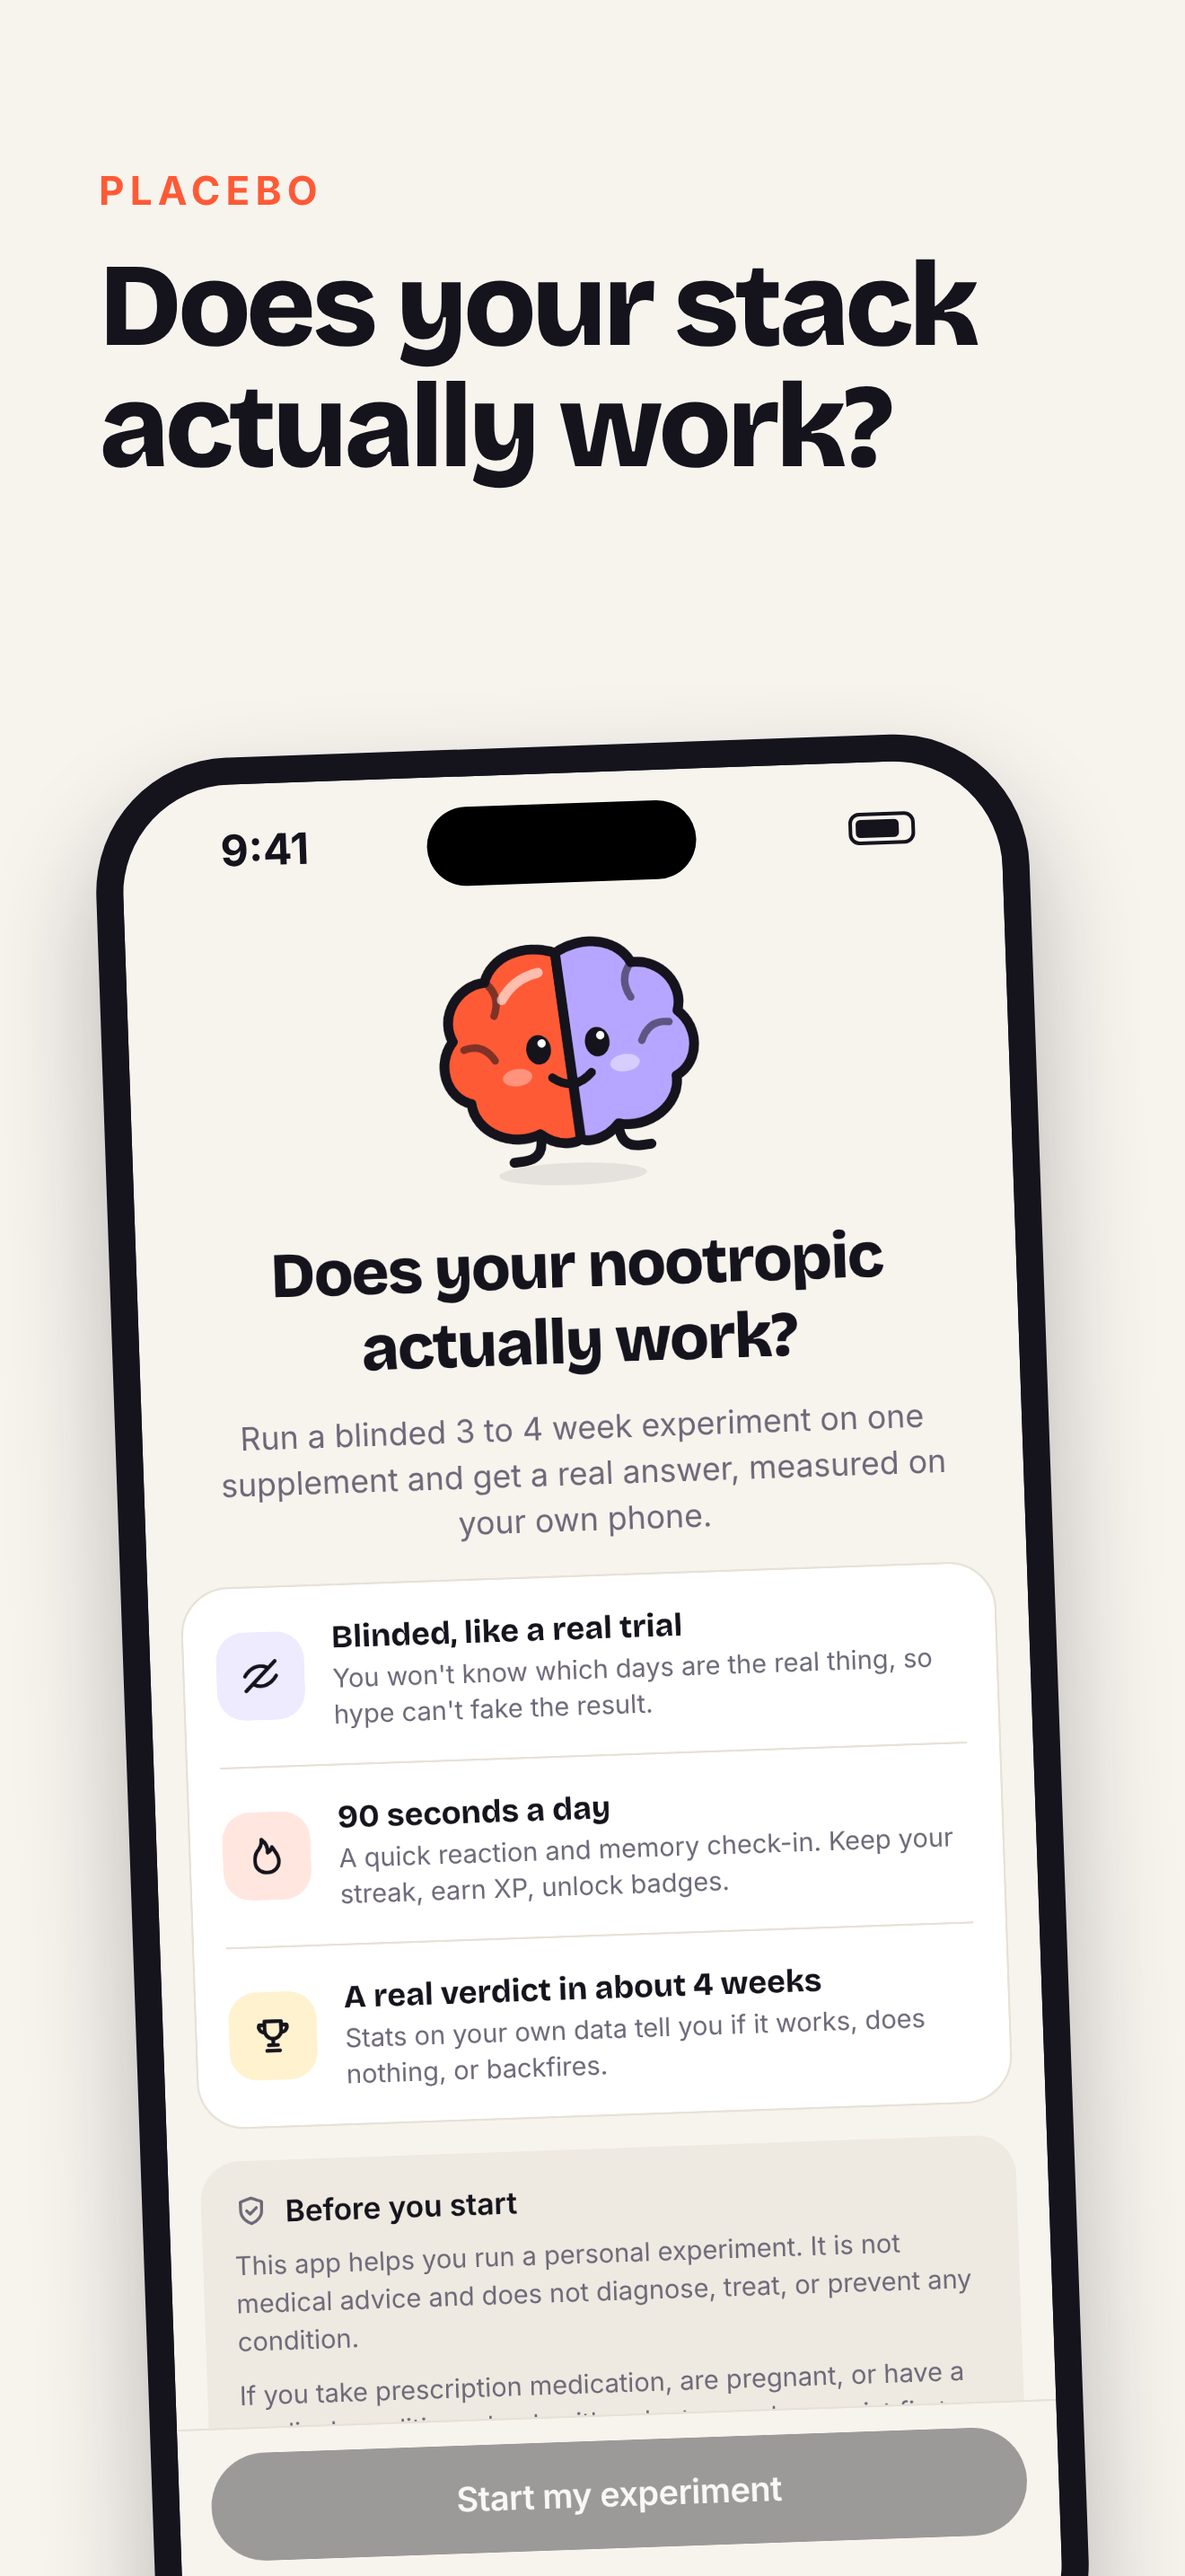
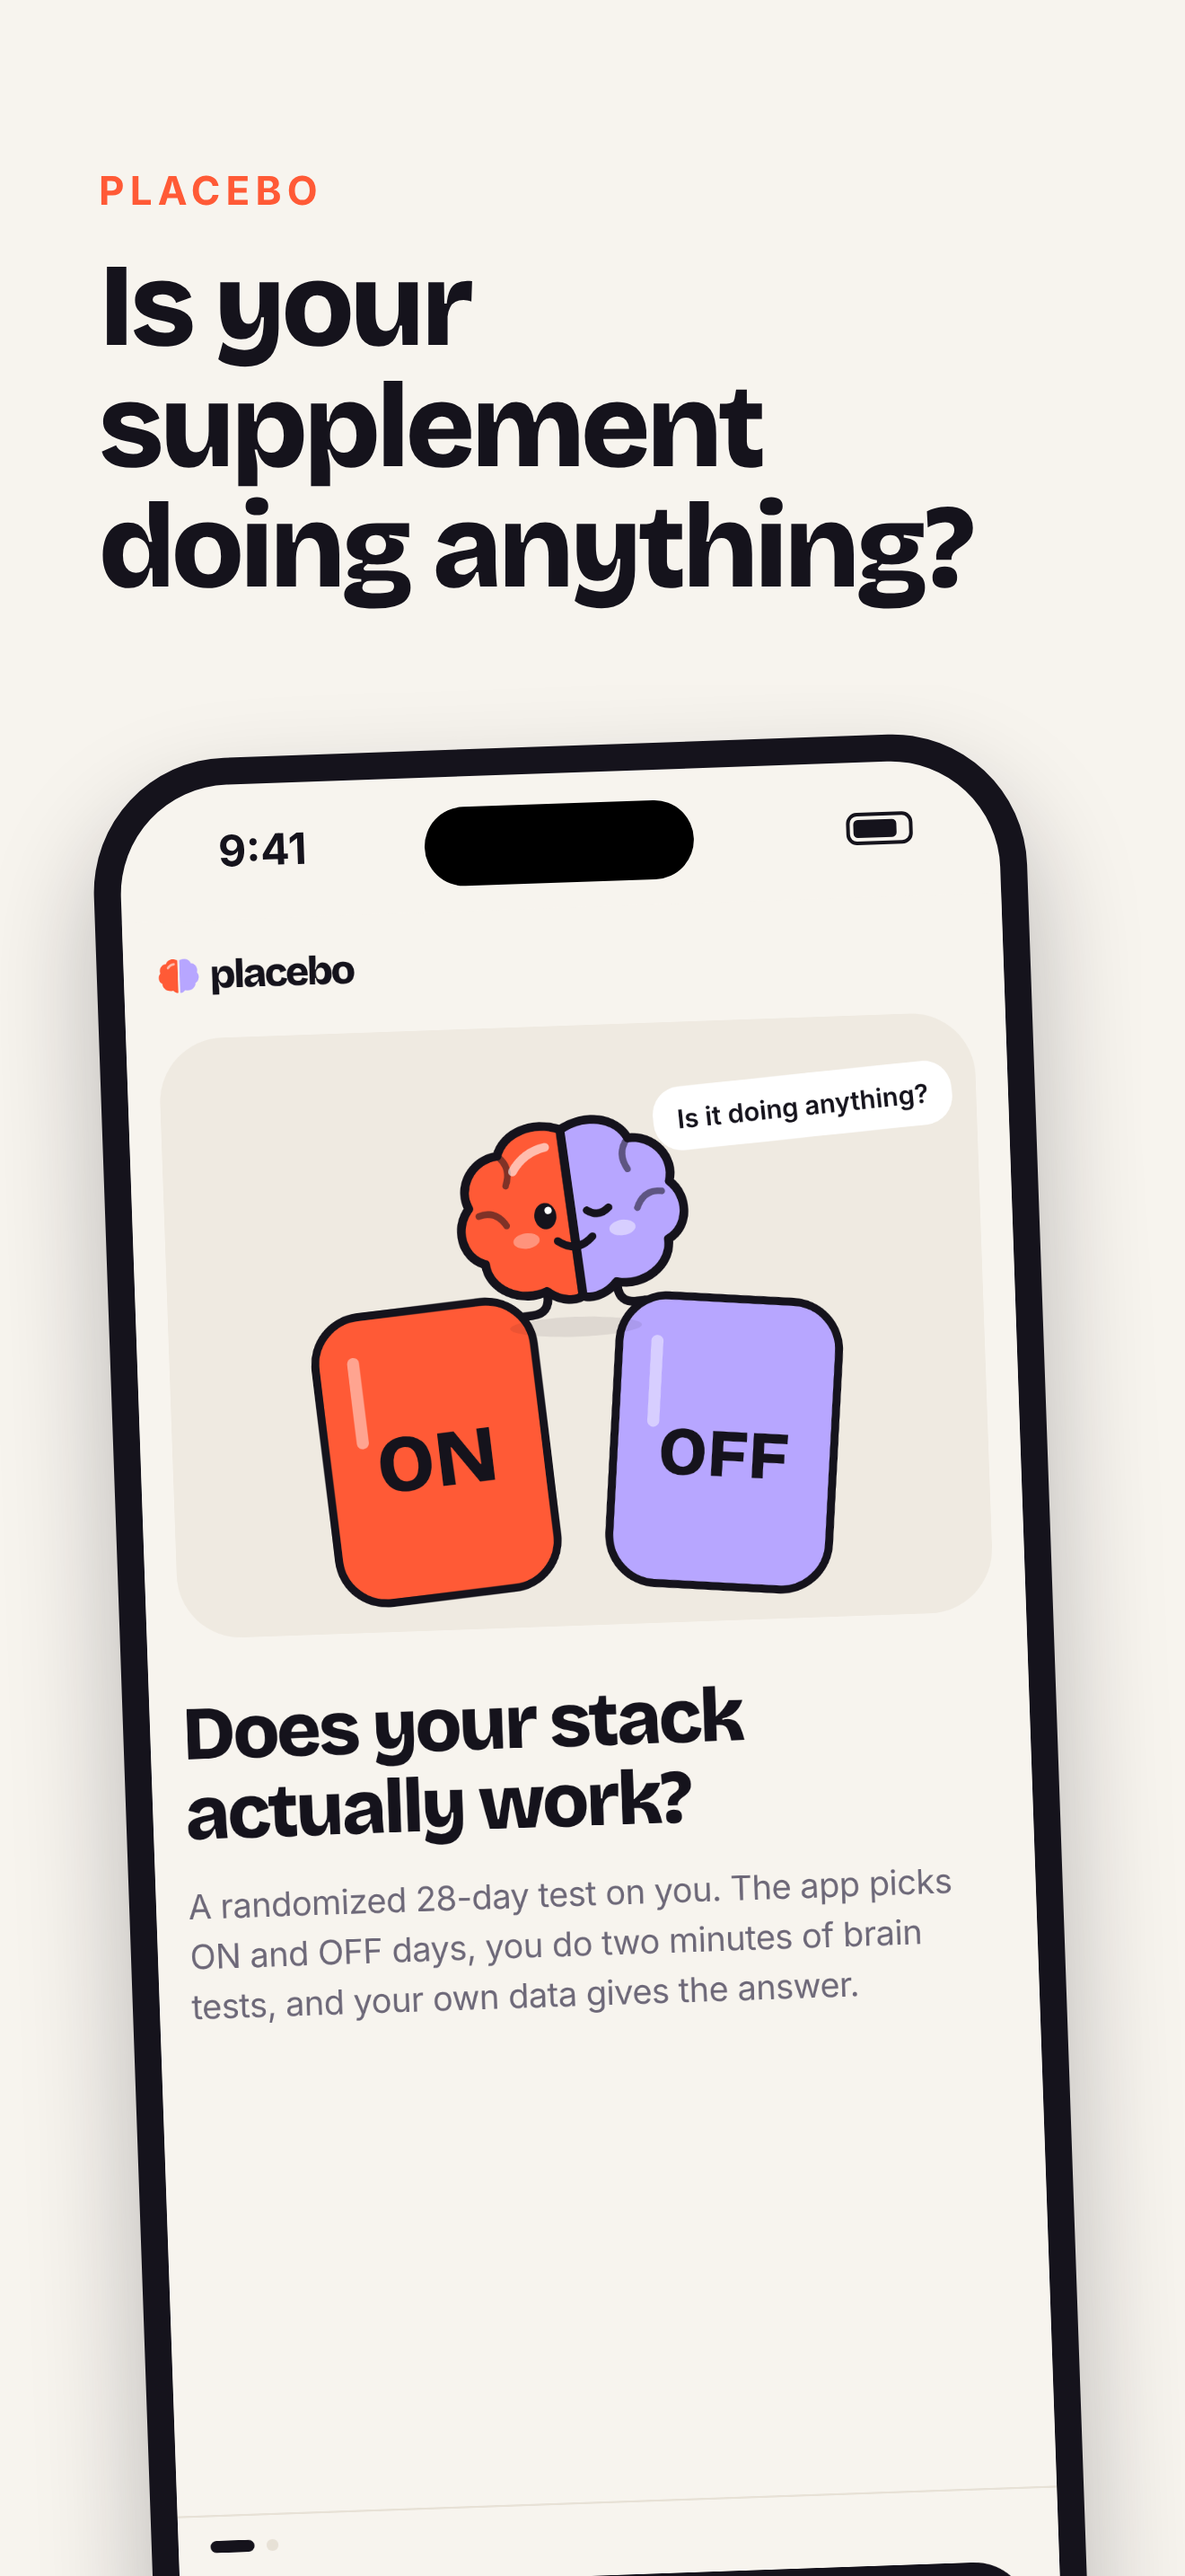
Re-capture App Store screenshots from the Figma restyle
All 7 frames now show the open-label, restyled app (welcome, dark verdict,
Today with ON/OFF call and the 5-test check-in). Completed-run demo seed is
open-label. Description lists the five check-in tests; privacy URL filled in.

Claude-Session: https://claude.ai/code/session_01Jhz688qf6Fq3iAeMnGpjHJ

diff --git a/store/screenshots/frames.html b/store/screenshots/frames.html
@@ -30,6 +30,10 @@
   .screen img { display: block; width: 100%; }
   /* Screens with no top safe-area padding of their own get a status-bar strip. */
   .screen.inset { padding-top: 150px; }
+  .screen.dark { background: var(--ink); }
+  .screen.dark .status { color: var(--paper); }
+  .screen.dark .batt { border-color: var(--paper); }
+  .screen.dark .batt::after { background: var(--paper); }
   .island { position: absolute; top: 34px; left: 50%; width: 300px; height: 88px; transform: translateX(-50%); background: #000; border-radius: 44px; }
   .status { position: absolute; top: 50px; left: 110px; right: 96px; display: flex; justify-content: space-between; align-items: center; font: 700 48px/1 'Inter'; color: var(--ink); }
   .batt { display: block; width: 74px; height: 36px; border: 4px solid var(--ink); border-radius: 12px; position: relative; }
@@ -38,23 +42,23 @@
 </head>
 <body>
 <section class="frame" id="01-hook">
-  <div class="copy"><div class="kicker">Placebo</div><h1>Does your stack actually work?</h1></div>
-  <div class="phone" style="--tilt:-2deg"><div class="screen"><img src="raw/welcome.png"><div class="island"></div><div class="status"><span>9:41</span><span class="batt"></span></div></div></div>
+  <div class="copy"><div class="kicker">Placebo</div><h1>Is your supplement doing anything?</h1></div>
+  <div class="phone" style="--tilt:-2deg"><div class="screen inset"><img src="raw/welcome.png"><div class="island"></div><div class="status"><span>9:41</span><span class="batt"></span></div></div></div>
 </section>
 <section class="frame ink" id="02-verdict">
   <div class="copy"><div class="kicker">The verdict</div><h1>A real answer from your own data.</h1></div>
-  <div class="phone"><div class="screen"><img src="raw/verdict.png"><div class="island"></div><div class="status"><span>9:41</span><span class="batt"></span></div></div></div>
+  <div class="phone"><div class="screen inset dark"><img src="raw/verdict.png"><div class="island"></div><div class="status"><span>9:41</span><span class="batt"></span></div></div></div>
 </section>
 <section class="frame lilac" id="03-randomized">
   <div class="copy"><div class="kicker">Randomized</div><h1>On days, off days. A coin flip picks.</h1></div>
   <div class="phone" style="--tilt:2deg"><div class="screen inset"><img src="raw/progress.png"><div class="island"></div><div class="status"><span>9:41</span><span class="batt"></span></div></div></div>
 </section>
 <section class="frame" id="04-daily-test">
-  <div class="copy"><div class="kicker">90 seconds a day</div><h1>Measure your brain, not your mood.</h1></div>
+  <div class="copy"><div class="kicker">Free reaction test</div><h1>Measure your brain, not your mood.</h1></div>
   <div class="phone"><div class="screen inset"><img src="raw/reaction-test.png"><div class="island"></div><div class="status"><span>9:41</span><span class="batt"></span></div></div></div>
 </section>
 <section class="frame tang" id="05-countdown">
-  <div class="copy"><div class="kicker">Built to finish</div><h1>Quests, streaks and a date for your answer.</h1></div>
+  <div class="copy"><div class="kicker">Every day</div><h1>On or off today, then 3 minutes of tests.</h1></div>
   <div class="phone" style="--tilt:-2deg"><div class="screen inset"><img src="raw/home.png"><div class="island"></div><div class="status"><span>9:41</span><span class="batt"></span></div></div></div>
 </section>
 <section class="frame" id="06-health">

diff --git a/src/dev/seed.ts b/src/dev/seed.ts
@@ -6,7 +6,6 @@
  */
 import type { SqlDriver } from '@/db/driver';
 import { experiments, quickTests, scheduleDays, testSessions } from '@/db/repositories';
-import { createRng } from '@/engines/experiment/rng';
 import { createExperiment } from '@/engines/onboarding/createExperiment';
 
 const EXPERIMENT_ID = 'demo-experiment';
@@ -115,7 +114,7 @@ export function seedDemoData(db: SqlDriver): void {
 }
 
 /**
- * A finished, self-blinded 21-day L-Theanine + Caffeine run (ended yesterday)
+ * A finished, open-label 21-day L-Theanine + Caffeine run (ended yesterday)
  * with a clear effect, so the verdict screen shows a real result. Used for App
  * Store screenshots (`node scripts/screenshots.mjs --scenario=completed`).
  */
@@ -136,15 +135,13 @@ export function seedCompletedDemo(db: SqlDriver): void {
         name: 'L-Theanine + Caffeine',
       },
       lengthDays: LENGTH,
-      blindingMode: 'self_blind',
+      blindingMode: 'none',
       testWindow: 'morning',
       startDate: localDay(daysAgo(START_AGO)),
     },
     { experimentId: EXPERIMENT_ID, seed },
   );
 
-  // Same draw the blinding engine makes, so we know which cup is the real one.
-  const supplementLabel = createRng(`labels:${seed}`).next() < 0.5 ? 'A' : 'B';
   const schedule = scheduleDays.listForExperiment(db, EXPERIMENT_ID);
   let n = 0;
   for (let b = -3; b <= -1; b++) {
@@ -154,7 +151,7 @@ export function seedCompletedDemo(db: SqlDriver): void {
     const at = daysAgo(START_AGO - day.dayIndex, 8, 30);
     scheduleDays.markTaken(db, EXPERIMENT_ID, day.dayIndex, at.toISOString());
     if (day.dayIndex === 12) continue; // one missed check-in, like real life
-    const arm = day.arm === supplementLabel ? 'ON' : 'OFF';
+    const arm = day.arm === 'ON' ? 'ON' : 'OFF';
     insertSession(db, day.dayIndex, daysAgo(START_AGO - day.dayIndex, 9, 15), arm, n++, 0.15);
   }
 }

diff --git a/store/listing.en-US.md b/store/listing.en-US.md
@@ -61,7 +61,7 @@ Most of what you take was chosen from a TikTok, a forum thread or a friend's sta
 HOW IT WORKS
 • Pick one goal and one supplement you already have.
 • Placebo builds a randomized schedule: some days you take it, some days you don't. A coin flip picks the days, not your mood.
-• Each day, a 90-second check-in: a reaction-time test, a quick memory task and three sliders.
+• Each day, a check-in of five short brain tests, about 3 minutes: reaction time, color clash, symbol code, word memory and a calm check.
 • After 3 to 4 weeks, your verdict compares your on days with your off days: measurable improvement, no meaningful effect, measured worse, or not enough data yet. With the range, in plain units.
 • The verdict leans on timed tests, not just how you feel, because knowing which days are on can color how you rate them.
 
@@ -88,10 +88,10 @@ Running an experiment needs Placebo Pro, with a free trial for new subscribers. 
 Placebo is a personal measurement tool, not a medical device. It does not diagnose, treat or prevent any condition, and it doesn't tell you what to take. Talk to a doctor before starting any supplement, especially if you take prescription medication, are pregnant, or have a health condition.
 
 Terms of Use: https://www.apple.com/legal/internet-services/itunes/dev/stdeula/
-Privacy Policy: PRIVACY_POLICY_URL
+Privacy Policy: https://placeboapp.com/privacy
 ```
 
-Before pasting: replace `PRIVACY_POLICY_URL` (see store/README.md). If the
+Before pasting: if the
 store products end up with no free trial, delete "with a free trial for new
 subscribers" and the trial sentences.
 

diff --git a/store/README.md b/store/README.md
@@ -55,13 +55,6 @@ Developer account is approved.
 5. **After the Apple Developer account exists**: put the Team ID into
    `landing/.well-known/apple-app-site-association` (see landing/README.md).
 
-## Screenshots still to redo after the no-blinding redesign
-
-Blinding was dropped on 2026-11-26. Frame 03 now uses the progress screen, but
-two raw captures still show the old UI: `welcome.png` ("Blinded, like a real
-trial") and `verdict.png` (the "Unblinded" card). Re-capture all raws once the
-redesign is on main, then re-render. Don't upload 01 or 02 before that.
-
 ## Regenerating the screenshots
 
 Raw captures come from the app's web build with seeded demo data, then get
@@ -72,7 +65,7 @@ npm ci
 # active run (home, reaction test, health, library, setup, welcome)
 node scripts/screenshots.mjs /tmp/raw/active --size=440x956 --scale=3 \
   --routes=/,/reaction-test,/welcome,/dictionary,/health,/experiment-setup
-# finished run, for the verdict
+# finished open-label run, for the verdict
 node scripts/screenshots.mjs /tmp/raw/done --no-build --scenario=completed \
   --size=440x956 --scale=3 --routes=/verdict
 # copy the PNGs you want into store/screenshots/raw/, then
